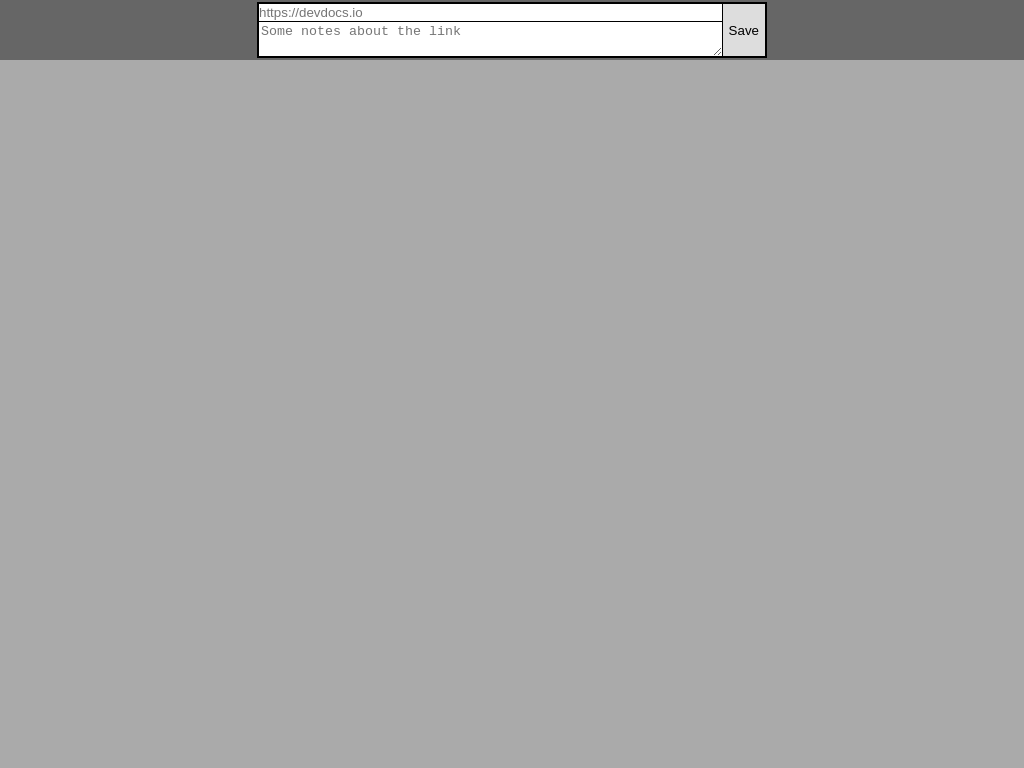
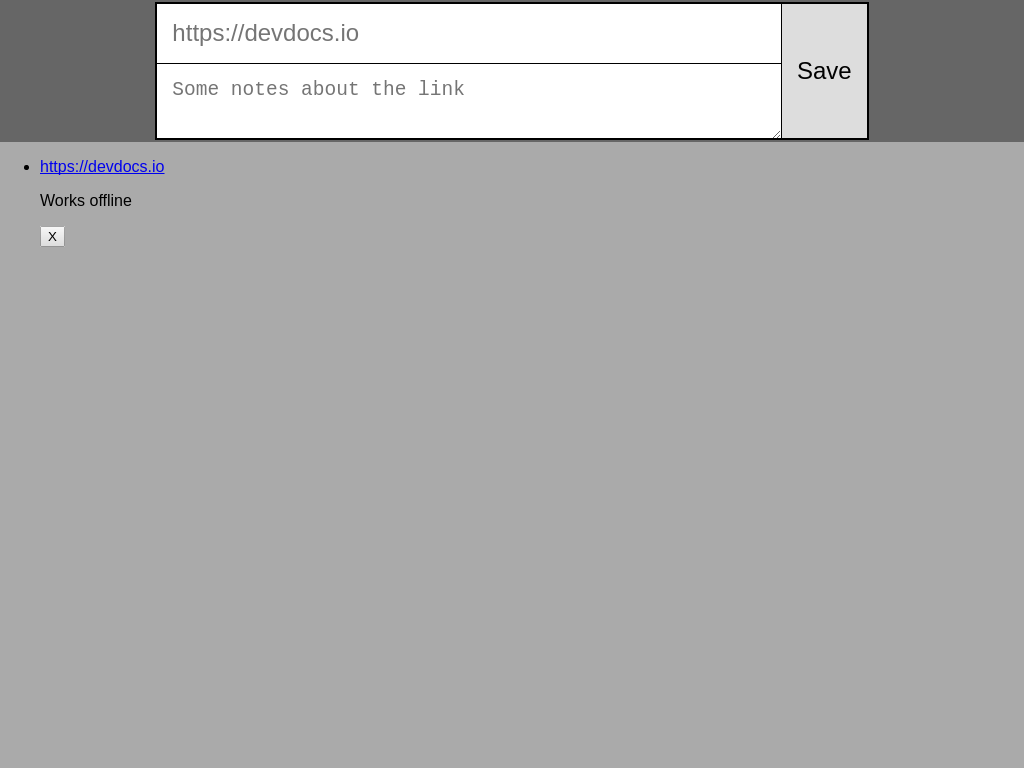
localstorage loaded on the page correctly

Changed region(s): [[0.0, 0.0, 1.0, 0.3438]]

diff --git a/docs/bundle.js b/docs/bundle.js
@@ -1,1 +1,44 @@
-(function e(t,n,r){function s(o,u){if(!n[o]){if(!t[o]){var a=typeof require=="function"&&require;if(!u&&a)return a(o,!0);if(i)return i(o,!0);var f=new Error("Cannot find module '"+o+"'");throw f.code="MODULE_NOT_FOUND",f}var l=n[o]={exports:{}};t[o][0].call(l.exports,function(e){var n=t[o][1][e];return s(n?n:e)},l,l.exports,e,t,n,r)}return n[o].exports}var i=typeof require=="function"&&require;for(var o=0;o<r.length;o++)s(r[o]);return s})({1:[function(require,module,exports){var input=document.querySelector("input")},{}]},{},[1]);
+(function e(t,n,r){function s(o,u){if(!n[o]){if(!t[o]){var a=typeof require=="function"&&require;if(!u&&a)return a(o,!0);if(i)return i(o,!0);var f=new Error("Cannot find module '"+o+"'");throw f.code="MODULE_NOT_FOUND",f}var l=n[o]={exports:{}};t[o][0].call(l.exports,function(e){var n=t[o][1][e];return s(n?n:e)},l,l.exports,e,t,n,r)}return n[o].exports}var i=typeof require=="function"&&require;for(var o=0;o<r.length;o++)s(r[o]);return s})({1:[function(require,module,exports){
+var saveBtn = document.querySelector('.save');
+var ul = document.querySelector('.bookmarks');
+var form = document.querySelector('form');
+var array = [];
+
+form.addEventListener('submit', function(e) {
+    e.preventDefault();
+    var val = this.link.value;
+    var text = this.notes.value;
+    localStorage.setItem(val, text);
+    array.push(val);
+    array.push(text);
+    // localStorage.setItem('text', text);
+    this.reset();
+    display();
+});
+
+var display = function() {
+    // var link = localStorage.link;
+    // var note = localStorage.getItem('text');
+    var keys = Object.keys(localStorage);
+    var values = Object.values(localStorage);
+    var outPut = keys.map(function(el, i) {
+        var key = keys[i];
+        var value = values[i];
+       return `<li class="bookmark">
+                      <div>
+                        <a href="${key}" target='_blank'>${key}</a>
+                        <p>${value}</p>
+                      </div>
+                      <button class="remove">X</button>
+                    </li> `;
+    }).join('');
+
+     ul.innerHTML = outPut;
+
+    document.querySelectorAll('.remove').forEach(function(btn) {
+        btn.addEventListener('click', function() {
+            btn.parentNode.parentNode.textContent = '';
+        });
+    });
+}
+},{}]},{},[1]);

diff --git a/src/index.js b/src/index.js
@@ -1,1 +1,38 @@
-var input = document.querySelector('input');
+var saveBtn = document.querySelector('.save');
+var ul = document.querySelector('.bookmarks');
+var form = document.querySelector('form');
+
+form.addEventListener('submit', function(e) {
+    e.preventDefault();
+    var val = this.link.value;
+    var text = this.notes.value;
+    localStorage.setItem(val, text);
+    // localStorage.setItem('text', text);
+    this.reset();
+    display();
+});
+
+var display = function() {
+    // var link = localStorage.link;
+    // var note = localStorage.getItem('text');
+    var keys = Object.keys(localStorage);
+    var values = Object.values(localStorage);
+    var outPut = keys.map(function(el, i) {
+        var key = keys[i];
+        var value = values[i];
+        return `<li class="bookmark">
+                      <div>
+                        <a href="${key}" target='_blank'>${key}</a>
+                        <p>${value}</p>
+                      </div>
+                      <button class="remove">X</button>
+                    </li> `;
+    }).join('');
+    ul.innerHTML = outPut;
+
+    document.querySelectorAll('.remove').forEach(function(btn) {
+        btn.addEventListener('click', function() {
+            btn.parentNode.parentNode.textContent = '';
+        });
+    });
+}

diff --git a/docs/style.css b/docs/style.css
@@ -16,14 +16,15 @@ header {
   padding: 2px; }
   header form {
     margin: 0 auto;
-    width: 50%;
-    display: flex;
+    width: 70%;
     border: 1px solid; }
     header form input,
     header form textarea,
     header form button {
       display: block;
-      border: 1px solid; }
+      border: 1px solid;
+      font-size: 1.5rem;
+      padding: 2vmin; }
     header form input,
     header form textarea {
       width: 100%; }
@@ -44,3 +45,24 @@ header {
 .columns {
   display: flex;
   flex-direction: row; }
+
+.bookmarks .bookmark {
+  padding: 1rem;
+  border: 1px solid;
+  background-color: #fff;
+  font-size: 2rem;
+  text-align: center;
+  list-style: none;
+  position: relative;
+  width: 50%;
+  margin: 0 auto; }
+  .bookmarks .bookmark a {
+    color: #000;
+    text-decoration: none; }
+  .bookmarks .bookmark .remove {
+    border-radius: 50%;
+    border: 1px solid;
+    font-size: 1.5rem;
+    position: absolute;
+    top: 1%;
+    left: 97.5%; }

diff --git a/src/style.scss b/src/style.scss
@@ -22,6 +22,8 @@ header{
     button {
       display: block;
       border: 1px solid;
+      font-size: 1.5rem;
+      padding: 2vmin;
     }
     input,
     textarea {
@@ -34,8 +36,7 @@ header{
       border-width: 0 0 1px 1px;
     }
     margin: 0 auto;
-    width: 50%;
-    display: flex;
+    width: 70%;
     border: 1px solid;
     button{
       height: 100%;
@@ -52,4 +53,30 @@ header{
 .columns{
   display: flex;
   flex-direction: row;
+}
+
+.bookmarks{
+  .bookmark{
+    padding: 1rem;
+    border: 1px solid;
+    background-color: #fff;
+    font-size: 2rem;
+    text-align: center;
+    list-style: none;
+    position: relative;
+    width: 50%;
+    margin: 0 auto;
+    a{
+      color: #000;
+      text-decoration: none;
+    }
+    .remove{
+      border-radius: 50%;
+      border: 1px solid;
+      font-size: 1.5rem;
+      position: absolute;
+      top: 1%;
+      left: 97.5%;
+    }
+  }
 }

diff --git a/docs/index.html b/docs/index.html
@@ -16,13 +16,13 @@
       </div>
     </div>
     <div class="rows">
-      <button class="grow">Save</button>
+      <button class="grow save">Save</button>
     </div>
   </form>
 </header>
 <main>
   <ul class="bookmarks">
-    <!-- <li class="bookmark">
+   <!--  <li class="bookmark">
       <div>
         <a href="https://devdocs.io">https://devdocs.io</a>
         <p>Works offline</p>
@@ -30,7 +30,6 @@
       <button class="remove">X</button>
     </li> -->
   </ul>
-
   <script type="text/javascript" src="bundle.js"></script>
 </main>
 </body>

diff --git a/src/index.html b/src/index.html
@@ -16,13 +16,13 @@
       </div>
     </div>
     <div class="rows">
-      <button class="grow">Save</button>
+      <button class="grow save">Save</button>
     </div>
   </form>
 </header>
 <main>
   <ul class="bookmarks">
-    <!-- <li class="bookmark">
+   <!--  <li class="bookmark">
       <div>
         <a href="https://devdocs.io">https://devdocs.io</a>
         <p>Works offline</p>
@@ -30,7 +30,6 @@
       <button class="remove">X</button>
     </li> -->
   </ul>
-
   <script type="text/javascript" src="bundle.js"></script>
 </main>
 </body>
